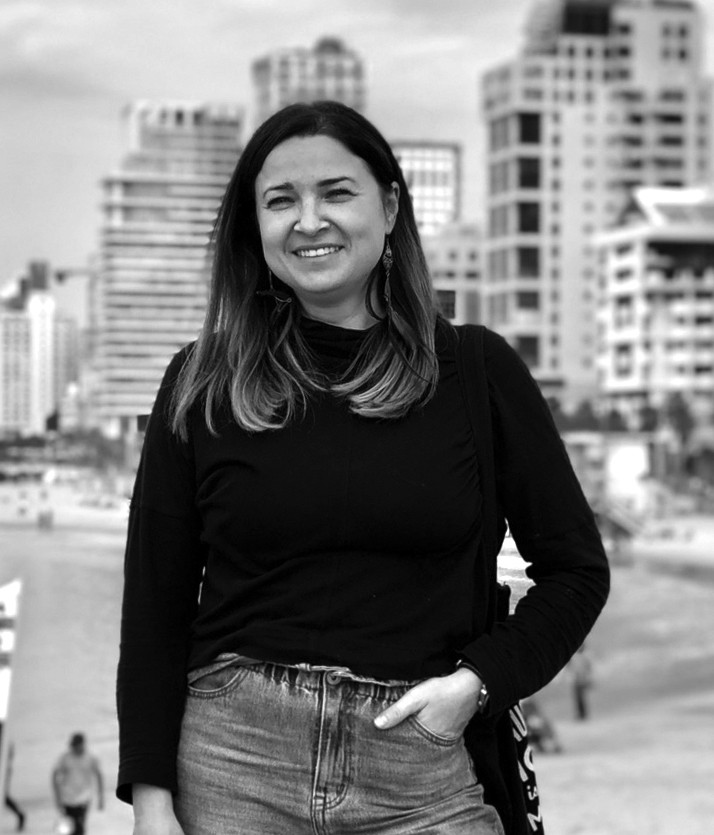
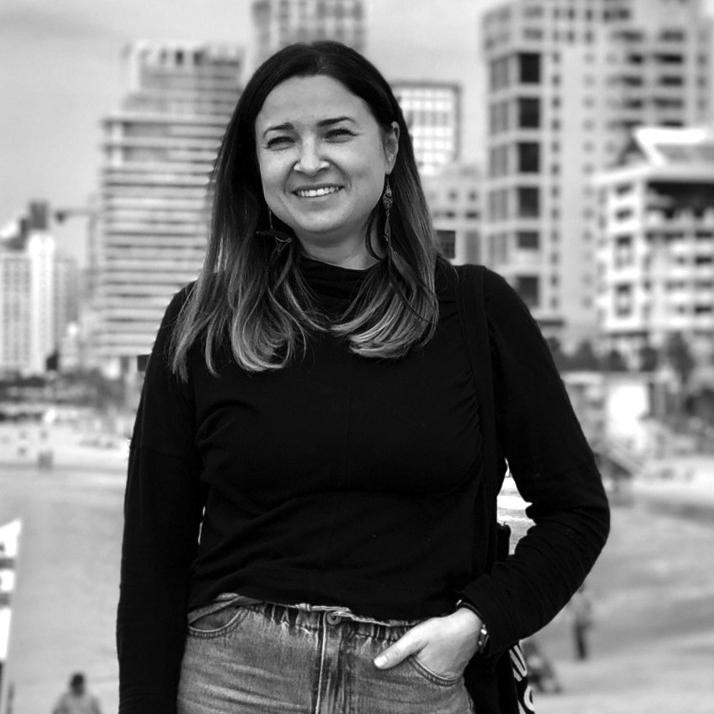
feat: add photo

diff --git a/index.html b/index.html
@@ -1,14 +1,18 @@
 <!DOCTYPE html>
 <html lang="en">
-<head>
-    <meta charset="UTF-8">
-    <meta http-equiv="X-UA-Compatible" content="IE=edge">
-    <meta name="viewport" content="width=device-width, initial-scale=1.0">
-    <link rel="stylesheet" href="style.css">
+  <head>
+    <meta charset="UTF-8" />
+    <meta http-equiv="X-UA-Compatible" content="IE=edge" />
+    <meta name="viewport" content="width=device-width, initial-scale=1.0" />
+    <link rel="stylesheet" href="style.css" />
     <title>CV</title>
-</head>
-<body>
-<section id="secLeft"></section>
-<section id="secRight"></section>
-</body>
+  </head>
+  <body>
+    <section id="secLeft">
+      <div id="img">
+        <img id="imgMain" src="/rsschool-cv/photo2.jpg" alt="" srcset="" />
+      </div>
+    </section>
+    <section id="secRight"></section>
+  </body>
 </html>

diff --git a/style.css b/style.css
@@ -1,0 +1,21 @@
+body {
+  display: flex;
+  height: auto;
+  margin: 0px;
+}
+#secLeft {
+  width: 45%;
+  background-color: #ffeeba;
+}
+#img{
+    text-align: center;
+}
+#imgMain {
+  width: 70%;
+  border-radius: 50%;
+  border: 8px solid rgb(41, 41, 41);
+  margin: 20px auto;
+}
+#secRight {
+  width: 55%;
+}
